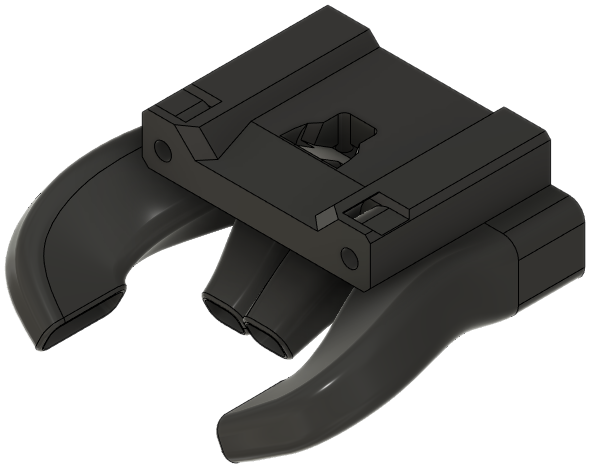
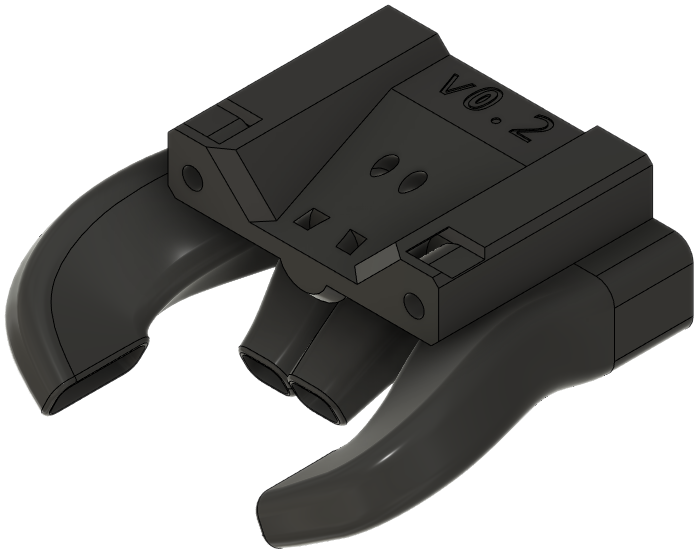
Klicky updates

diff --git a/docs/modules/bottom.md b/docs/modules/bottom.md
@@ -84,9 +84,9 @@ The Y offset of the Beacon probe is 34mm.
 
 A version of the dual horns for Klicky users, with cutouts for magnets and wiring.
 
-The Klicky probe's Y offset is approximately 37mm from the nozzle. The additional materials for Klicky wiring are not part of the BOM.
+The Klicky probe's Y offset is approximately 37mm from the nozzle.
 
-[**Revision:**](#revision-history) v0.1
+[**Revision:**](#revision-history) v0.2
 
 **Bill of Materials**
 
@@ -94,6 +94,8 @@ The Klicky probe's Y offset is approximately 37mm from the nozzle. The additiona
 |-----------|-----|
 | [:material-printer-3d-nozzle: `klicky_bottom.stl`][bottom_klicky]     | 1 |
 | Heat Set Insert, M3x5x4   | 1 |
+| 24 awg hookup wire (1.5mm^2^) | 1ft/30cm |
+| 6mm x 3mm magnets         | 3 |
 
 </div>
 <div markdown class="jh-grid-img">
@@ -154,7 +156,7 @@ The Y offset of the Beacon probe is 34mm.
 
 | Parts     | Qty |
 |-----------|-----|
-| [:material-printer-3d-nozzle: `beacon_bottom.stl`][bottom_beacon]     | 1 | 
+| [:material-printer-3d-nozzle: `beacon_bottom.stl`][bottom_beacon_trihorn]     | 1 | 
 | Heat Set Insert, M3x5x4   | 3 |
 | Low-Profile Beacon Kit    | 1 |
 
@@ -177,7 +179,7 @@ The Y offset of the Beacon probe is 34mm.
 
 A version of the trihorns for Klicky, with cutouts for magnets and wiring.
 
-The Klicky probe's Y offset is approximately 37mm from the nozzle. The additional materials for Klicky wiring are not part of the BOM.
+The Klicky probe's Y offset is approximately 37mm from the nozzle.
 
 [**Revision:**](#revision-history) v0.1
 
@@ -187,6 +189,8 @@ The Klicky probe's Y offset is approximately 37mm from the nozzle. The additiona
 |-----------|-----|
 | [:material-printer-3d-nozzle: `klicky_bottom_trihorn.stl`][bottom_klicky_trihorn]     | 1 |
 | Heat Set Insert, M3x5x4   | 1 |
+| 24 awg hookup wire (1.5mm^2^) | 1ft/30cm |
+| 6mm x 3mm magnets         | 3 |
 
 </div>
 <div markdown class="jh-grid-img">
@@ -243,7 +247,9 @@ Two options are available for routing the rear wiring:
 </div>
 </div>
 
-<!-- ### Dual Horns for Klicky
+### Dual Horns for Klicky
+
+!!! tip "Fit Test Pending: See [Issue #12](https://github.com/jon-harper/E34M1/issues/12)"
 
 <div markdown class="jh-grid-container jh-grid-2">
 <div markdown class="jh-grid-para">
@@ -252,7 +258,7 @@ Two options are available for routing the rear wiring:
 
 These horns have points for embedding magnets and holes to route the wiring for Klicky.
 
-The Klicky probe's Y offset is approximately 37mm from the nozzle. The additional materials for Klicky wiring are not part of the BOM.
+The Klicky probe's Y offset is approximately 37mm from the nozzle.
 
 [**Revision:**](#revision-history) v0.1
 
@@ -262,6 +268,8 @@ The Klicky probe's Y offset is approximately 37mm from the nozzle. The additiona
 |-----------|-----|
 | [:material-printer-3d-nozzle: `beacon_bottom_uhf.stl`][bottom_klicky_uhf]     | 1 |
 | Heat Set Insert, M3x5x4   | 3 |
+| 24 awg hookup wire (1.5mm^2^) | 1ft/30cm |
+| 6mm x 3mm magnets         | 3 |
 
 </div>
 <div markdown class="jh-grid-img">
@@ -270,12 +278,14 @@ The Klicky probe's Y offset is approximately 37mm from the nozzle. The additiona
 ??? info "Heat Set Insert Locations"
     ![bottom_illustration](../img/inserts/bottom_klicky_uhf.png){ width=256px}
 </div>
-</div> -->
+</div>
 
 ## Revision History
 
 | Date | File | Version | Description |
 |------|------|---------|-------------|
+| 23/09/03 | `klicky_bottom.stl`            | v0.2 | Fixed wiring issues. |
+| 23/08/16 | `klicky_bottom_trihorn.stl`    | v0.2 | Fixed wiring issues. |
 | 23/04/18 | `beacon_bottom.stl`            | v0.1 | Initial release. |
 | 23/04/18 | `beacon_bottom_no_hsi.stl`     | v0.1 | Initial release. |
 | 23/04/18 | `beacon_bottom_trihorns.stl`   | v0.1 | Initial release. |

diff --git a/include/links.md b/include/links.md
@@ -19,7 +19,9 @@
 [bottom_trihorns]: https://github.com/jon-harper/E34M1/blob/main/STL/bottom/stock_bottom_trihorn.stl
 [bottom_klicky]: https://github.com/jon-harper/E34M1/blob/main/STL/bottom/klicky_bottom.stl
 [bottom_klicky_trihorn]: https://github.com/jon-harper/E34M1/blob/main/STL/bottom/klicky_bottom_trihorn.stl
+[bottom_klicky_uhf]: https://github.com/jon-harper/E34M1/blob/testing/STL/bottom/bottom_klicky_uhf.stl
 [bottom_beacon]: https://github.com/jon-harper/E34M1/blob/main/STL/bottom/beacon_bottom.stl
+[bottom_beacon_trihorn]: https://github.com/jon-harper/E34M1/blob/main/STL/bottom/beacon_bottom_trihorns.stl
 [bottom_beacon_uhf]: https://github.com/jon-harper/E34M1/blob/main/STL/bottom/beacon_bottom_uhf.stl
 
 [bltouch_mount]: https://github.com/jon-harper/E34M1/blob/main/STL/abl/bl_touch_mount.stl
@@ -58,4 +60,4 @@
 [drive_lgx_lite]: https://github.com/jon-harper/E34M1/blob/main/STL/drives/drive_lgx_lite.stl
 [drive_orbiter_1_5]: https://github.com/jon-harper/E34M1/blob/testing/STL/drives/drive_orbiter_1_5.stl
 [drive_orbiter_2_0]: https://github.com/jon-harper/E34M1/blob/main/STL/drives/drive_orbiter_2_0.stl
-[drive_sherpa_mini]: https://github.com/jon-harper/E34M1/blob/testing/STL/drives/drive_sherpa_mini.stl
+[drive_sherpa_mini]: https://github.com/jon-harper/E34M1/blob/main/STL/drives/drive_sherpa_mini.stl

diff --git a/docs/changelog.md b/docs/changelog.md
@@ -5,6 +5,16 @@ authors: Jon Harper
 date: 2023-1-26
 ---
 
+## September 2023
+
+### 23/09/04
+
+- Bottom Horns: updated Klicky entries and a added a missing Beacon link
+
+### 23/09/03
+
+- Drives: Updated and fixed Annex Sherpa Mini docs.
+
 ## July 2023
 
 ### 23/07/13
